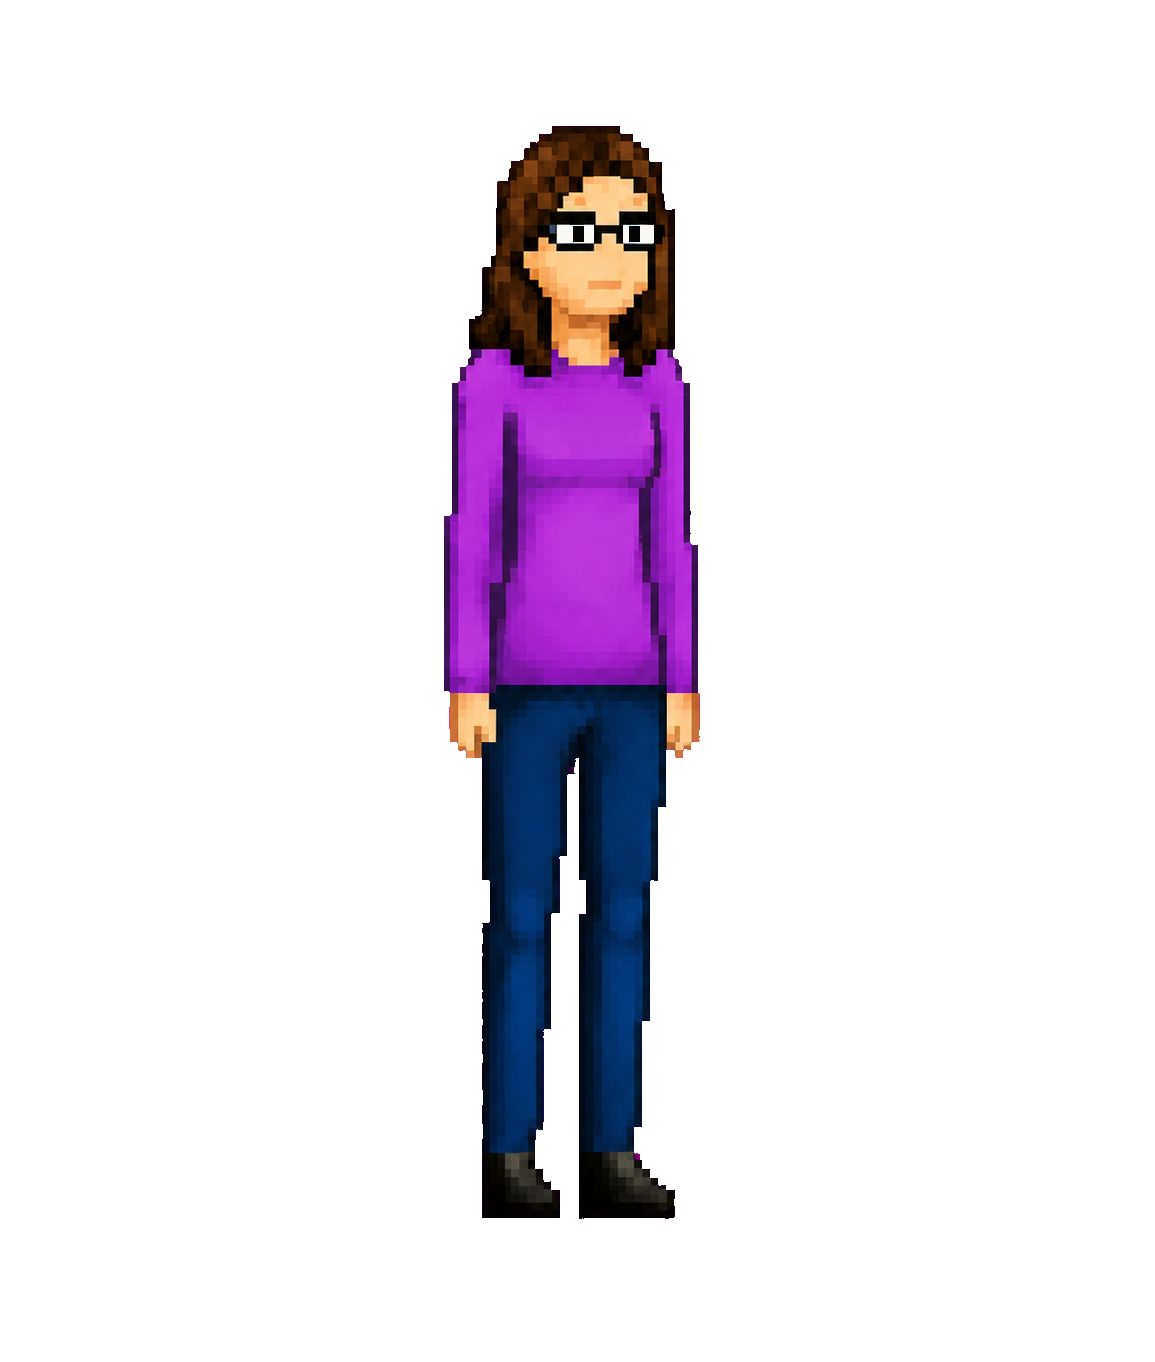
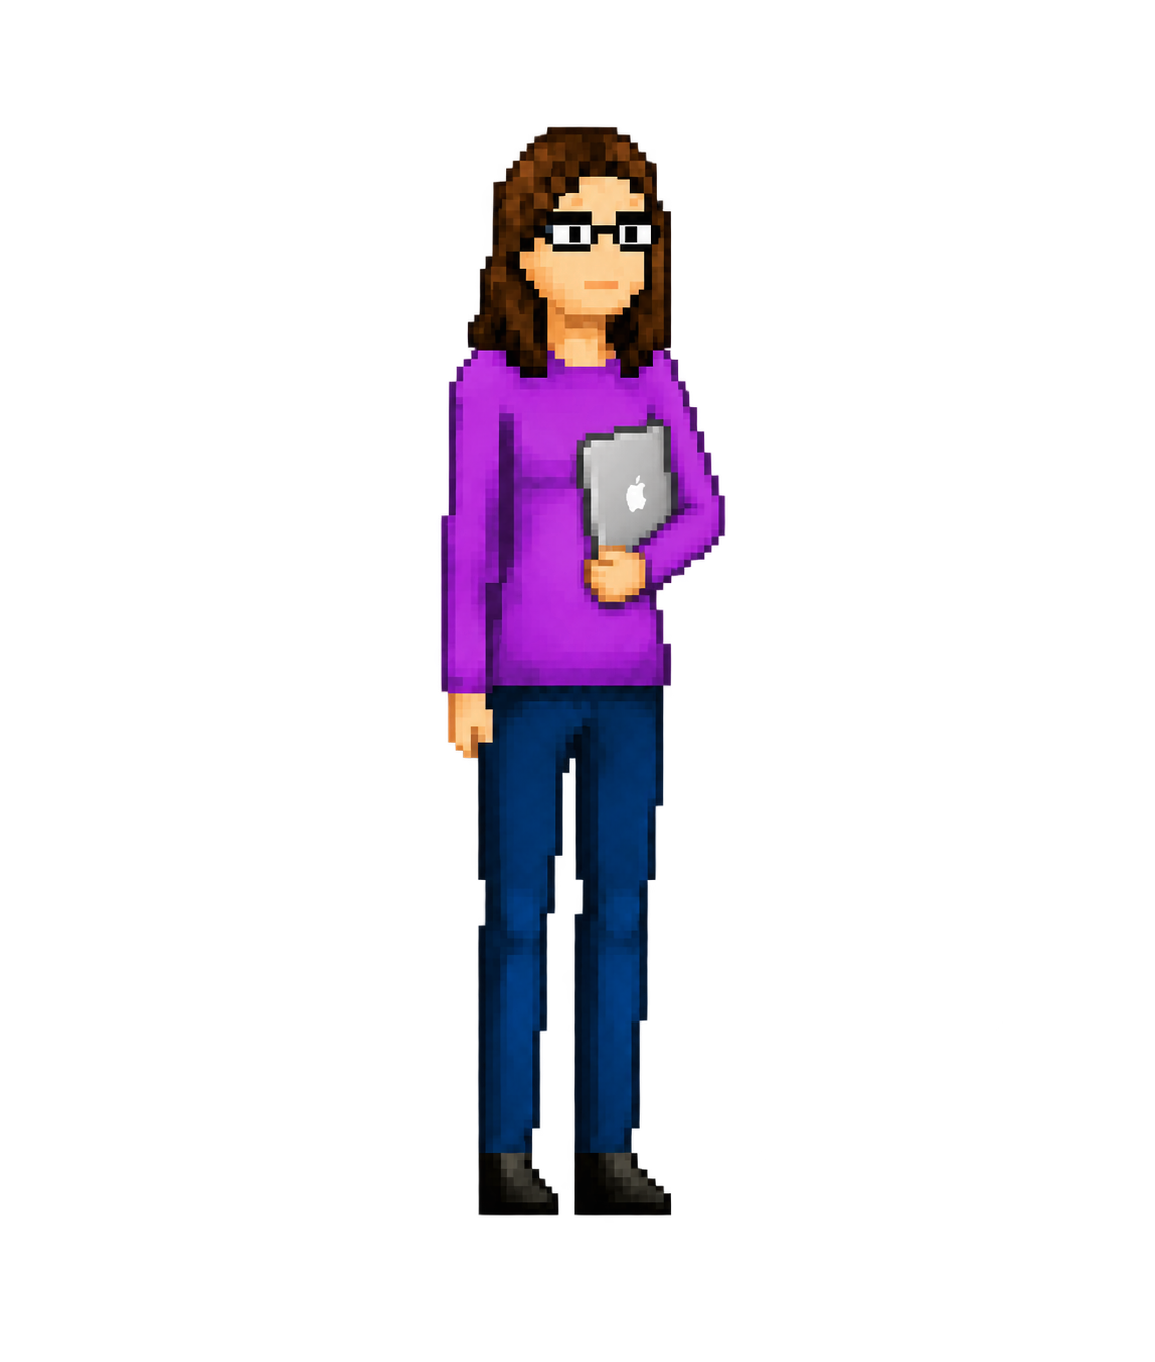
updates

Changed region(s): [[0.374, 0.0925, 0.6545, 0.8943]]

diff --git a/src/app/globals.css b/src/app/globals.css
@@ -145,6 +145,26 @@ b {
   background-image: url("/team/sprites/rob-animated.png?v=2");
 }
 
+.team-sprite-sheet--arista {
+  animation: team-sprite-arista 6.4s step-end infinite;
+  aspect-ratio: 1155 / 1362;
+  background-image: url("/team/sprites/arista-animated.png?v=4");
+  background-size: 600% 100%;
+}
+
+.team-sprite-sheet--odin {
+  animation: team-sprite-odin 5.6s step-end -2.1s infinite;
+  aspect-ratio: 1;
+  background-image: url("/team/sprites/odin-animated.png?v=1");
+}
+
+.team-sprite-sheet--cal {
+  animation: team-sprite-cal 8.8s step-end -3.1s infinite;
+  aspect-ratio: 1180 / 1333;
+  background-image: url("/team/sprites/cal-animated.png?v=2");
+  background-size: 200% 100%;
+}
+
 @keyframes team-sprite-steam {
   0%,
   23% {
@@ -226,10 +246,78 @@ b {
   }
 }
 
+@keyframes team-sprite-arista {
+  0%,
+  26% {
+    background-position: 0 0;
+  }
+  27%,
+  29% {
+    background-position: 20% 0;
+  }
+  30%,
+  43% {
+    background-position: 40% 0;
+  }
+  44%,
+  57% {
+    background-position: 60% 0;
+  }
+  58%,
+  71% {
+    background-position: 80% 0;
+  }
+  72%,
+  100% {
+    background-position: 100% 0;
+  }
+}
+
+@keyframes team-sprite-odin {
+  0%,
+  24% {
+    background-position: 0 0;
+  }
+  25%,
+  49% {
+    background-position: 25% 0;
+  }
+  50%,
+  52% {
+    background-position: 50% 0;
+  }
+  53%,
+  74% {
+    background-position: 75% 0;
+  }
+  75%,
+  100% {
+    background-position: 100% 0;
+  }
+}
+
+@keyframes team-sprite-cal {
+  0%,
+  48% {
+    background-position: 0 0;
+  }
+  49%,
+  51% {
+    background-position: 100% 0;
+  }
+  52%,
+  100% {
+    background-position: 0 0;
+  }
+}
+
 @media (prefers-reduced-motion: reduce) {
   .team-sprite-sheet--spruce,
   .team-sprite-sheet--dj,
-  .team-sprite-sheet--rob {
+  .team-sprite-sheet--rob,
+  .team-sprite-sheet--arista,
+  .team-sprite-sheet--odin,
+  .team-sprite-sheet--cal {
     animation: none;
   }
 }

diff --git a/src/app/team/page.tsx b/src/app/team/page.tsx
@@ -4,7 +4,7 @@ import { getCurrentTeamMembers } from "@/lib/team";
 
 const teamSprites = [
   { name: "Odin", src: "/team/isolated/odin.png", width: 1254, height: 1254, left: "-5.35%", top: "8.04%", size: "25.26%", zIndex: 1 },
-  { name: "Arista", src: "/team/isolated/arista.png", width: 1155, height: 1362, left: "-10.44%", top: "19.43%", size: "38.14%", zIndex: 7 },
+  { name: "Arista", src: "/team/isolated/arista.png?v=2", width: 1155, height: 1362, left: "-10.44%", top: "19.43%", size: "38.14%", zIndex: 7 },
   { name: "Jason", src: "/team/isolated/jason.png?v=4", width: 1180, height: 1333, left: "-4.87%", top: "0.24%", size: "41.70%", zIndex: 4 },
   { name: "Spruce", src: "/team/isolated/spruce.png?v=9", width: 1124, height: 1399, left: "7.49%", top: "-2.66%", size: "38.67%", zIndex: 5 },
   { name: "Cal", src: "/team/isolated/cal.png?v=2", width: 1180, height: 1333, left: "2.09%", top: "18.57%", size: "40.17%", zIndex: 8 },
@@ -62,7 +62,7 @@ export default async function TeamPage() {
                     zIndex: sprite.zIndex,
                   }}
                 >
-                  {sprite.name === "Spruce" || sprite.name === "DJ" || sprite.name === "Rob" ? (
+                  {sprite.name === "Odin" || sprite.name === "Spruce" || sprite.name === "DJ" || sprite.name === "Rob" || sprite.name === "Arista" || sprite.name === "Cal" ? (
                     <div
                       aria-hidden="true"
                       className={`team-sprite-sheet team-sprite-sheet--${sprite.name.toLowerCase()}`}
